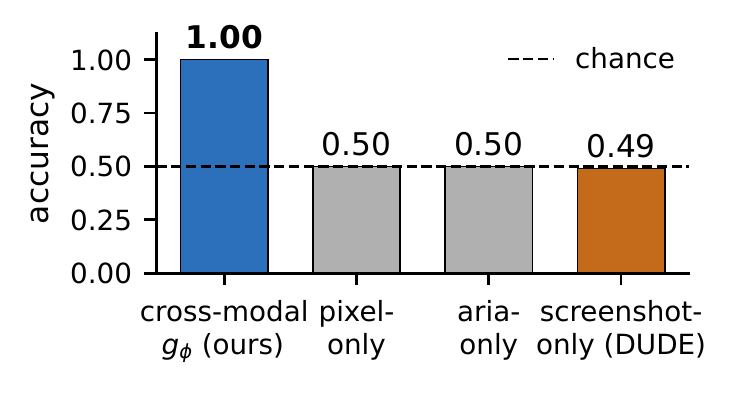
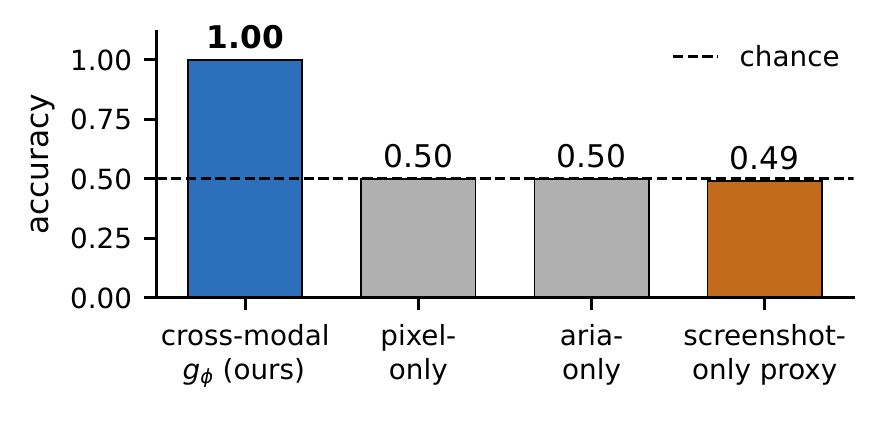
README: avoid prevalence wording; label the screenshot-only bar as a proxy; note unseen-type accuracy

diff --git a/README.md b/README.md
@@ -6,14 +6,14 @@
 
 This repository accompanies our paper "[Look Before You Leap: Cross-Modal Screenshot-versus-DOM Consistency Checking for Defending GUI Agents against Deceptive Interfaces](#authors-and-citation)" (under review at *Computers & Security*). It contains our offline deceptive-interface environment, the cross-modal mismatch head `g_phi`, the corrective re-observation policy `pi_theta`, every evaluation protocol in the paper, and the archived logs behind each reported number. The README below walks you through setting up the environment, running each experiment, and reproducing the paper's results.
 
-**What LBYL does, in one paragraph.** A GUI agent can observe a button in two ways: through its pixels in the screenshot, and through its structure in the DOM / accessibility tree (accessible name, role). Deceptive interfaces often make these disagree, for example a button that *looks* like "Reject non-essential" but is *declared* as "Accept all cookies and ad tracking". LBYL freezes a vision-language model, encodes both channels with it, and trains a small head that compares them through `[p, s, p-s, p*s]`. When the head flags a control, LBYL corrects the page (for example by removing a hijacking overlay) and lets the agent look again before it clicks.
+**What LBYL does, in one paragraph.** A GUI agent can observe a button in two ways: through its pixels in the screenshot, and through its structure in the DOM / accessibility tree (accessible name, role). A deceptive interface can make these disagree, for example a button that *looks* like "Reject non-essential" but is *declared* as "Accept all cookies and ad tracking". LBYL freezes a vision-language model, encodes both channels with it, and trains a small head that compares them through `[p, s, p-s, p*s]`. When the head flags a control, LBYL corrects the page (for example by removing a hijacking overlay) and lets the agent look again before it clicks.
 
 **Please read the scope before using it.** LBYL is a precise instrument for the *perceptual-discrepancy* class, where screenshot and DOM disagree. On an offline re-creation of SusBench's real dark patterns, it does **not** transfer, because those patterns keep both channels consistent. Treat LBYL as one layer in a defense stack, not as a general dark-pattern detector.
 
 <p align="center" width="100%">
 <img src="assets/crossmodal.png" alt="Shortcut-proof result" style="width: 45%; min-width: 250px; display: block; margin: auto;">
 </p>
-<p align="center"><em>On a benchmark where neither channel alone carries any label information, only the cross-modal head separates deceptive from honest controls.</em></p>
+<p align="center"><em>On a constructed benchmark where neither channel alone carries label information, only the cross-modal head separates deceptive from honest controls (unseen-seed split; on unseen dark-pattern types accuracy drops to 0.62). The last bar is a zero-shot proxy of DUDE's screenshot-only input protocol, not DUDE itself.</em></p>
 
 ## :hammer_and_wrench: Setting Up the Environment
 
